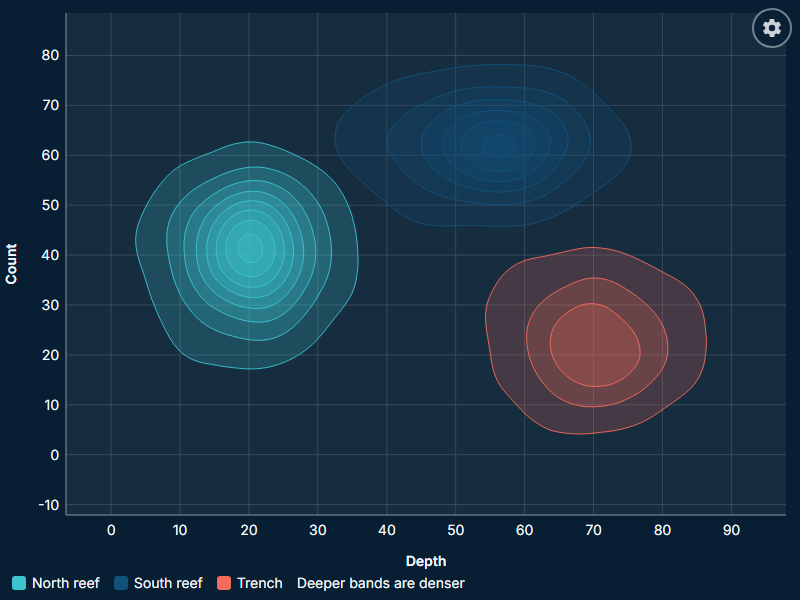
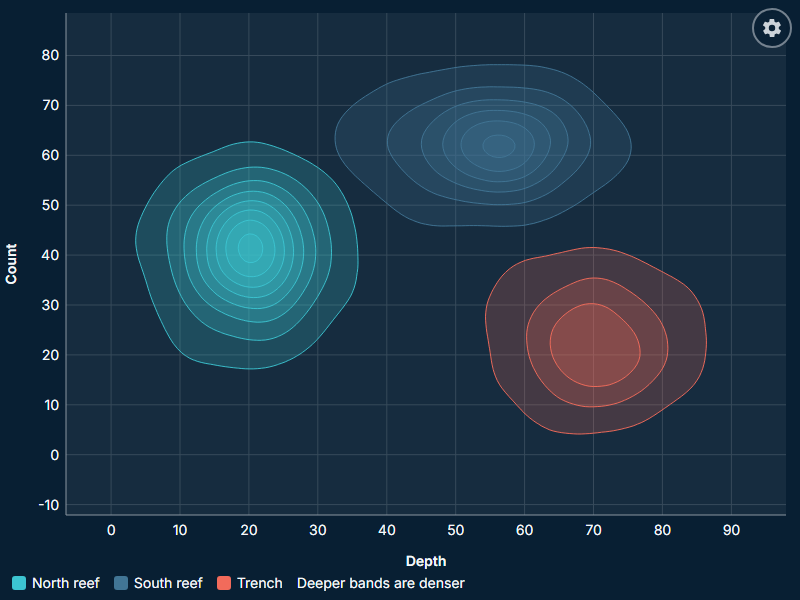
depth-lines: ctab-panel 1.1.0 wiring
Claude-Session: https://claude.ai/code/session_01LgKR4C3YaqcJ7j8irnNHQ8

Changed region(s): [[0.5312, 0.15, 0.7188, 0.33], [0.125, 0.96, 0.1562, 0.99]]

diff --git a/tableau-depth-lines/src/js/depth-lines.js b/tableau-depth-lines/src/js/depth-lines.js
@@ -146,7 +146,9 @@
       state.panel.applyAppearance(state.renderer.chartBg, state.renderer.ink);
       state.panel.gear.style.display = s.showGear ? '' : 'none';
       state.panel.render();
+      try { state.panel.trace({ marks: state.model && state.model.points ? state.model.points.length : 0 }); } catch (e) { /* diagnostics only */ }
     }
+    diagOnEmpty(document.getElementById('dl-root'));
   }
   function onChange (keys) {
     if (keys.some(function (k) { return DATA_KEYS[k]; })) { state.model = buildModel(); state.renderer.clearSelection(); }
@@ -179,10 +181,47 @@
       });
     }
     void r;
-    return { columns: d ? d.raw.columns : [], numericColumns: d ? d.numeric : [], auto: d ? d.auto : {}, lists: { categories: items } };
+    return { columns: d ? d.raw.columns : [], numericColumns: d ? d.numeric : [], auto: d ? d.auto : {}, lists: { categories: items }, data: diagData(d), tokens: diagTokens() };
+  }
+
+  /* What the diagnostics report and the title placeholders see. Cheap, and never throws. */
+  function diagData (d) {
+    try {
+      if (!d || !d.raw) return { rows: 0, fields: [], sample: [] };
+      var rows = d.raw.rows, cols = d.raw.columns;
+      var fields = cols.map(function (c) {
+        var t = 'text';
+        for (var i = 0; i < rows.length; i++) { var v = rows[i][c]; if (v === null || v === undefined) continue; t = typeof v === 'number' ? 'number' : (v instanceof Date ? 'date' : typeof v === 'boolean' ? 'boolean' : 'text'); break; }
+        return { name: c, type: t };
+      });
+      var sample = rows.slice(0, 4).map(function (r) { var o = {}; cols.forEach(function (c) { o[c] = r[c] === undefined ? null : r[c]; }); return o; });
+      return { rows: rows.length, fields: fields, sample: sample };
+    } catch (e) { return { rows: 0, fields: [], sample: [] }; }
+  }
+  function diagTokens () {
+    try {
+      var pts = state.model && state.model.points; if (!pts || !pts.length) return {};
+      var by = {}, total = 0, top = '', topV = -Infinity;
+      pts.forEach(function (p) { total += p.w; if (p.cat) { by[p.cat] = (by[p.cat] || 0) + p.w; if (by[p.cat] > topV) { topV = by[p.cat]; top = p.cat; } } });
+      var out = { total: total.toLocaleString('en-US', { maximumFractionDigits: 1 }) };
+      if (top) out.top = top;
+      return out;
+    } catch (e) { return {}; }
+  }
+  /* A Copy diagnostics button on the blank screen. One per empty box; a redraw rebuilds the box. */
+  function diagOnEmpty (root) {
+    try {
+      var e = root && root.querySelector('.dl-empty');
+      if (e && !e.querySelector('.cp-diagwrap')) CP.diagButton(e, { panel: state.panel });
+    } catch (x) { log('diag button failed', x); }
   }
 
   /* ---------------------------------------------------------------- boot */
+
+  function scheduleRedraw () {
+    if (state.resizeTimer) clearTimeout(state.resizeTimer);
+    state.resizeTimer = setTimeout(function () { state.resizeTimer = null; redraw(); }, 60);
+  }
 
   function mount (ws) {
     state.worksheet = ws;
@@ -192,11 +231,10 @@
     migrateLegacy(state.store, st);
     var root = document.getElementById('dl-root');
     state.renderer = new global.DL.Renderer(root);
-    state.panel = CP.create(root, { title: 'Depth Lines settings', schema: SET.schema, store: state.store, info: info, state: state.store.panelState, prefix: PREFIX });
-    global.addEventListener('resize', function () {
-      if (state.resizeTimer) clearTimeout(state.resizeTimer);
-      state.resizeTimer = setTimeout(function () { state.resizeTimer = null; redraw(); }, 60);
-    });
+    state.panel = CP.create(root, { title: 'Depth Lines settings', schema: SET.schema, store: state.store, info: info, state: state.store.panelState, prefix: PREFIX, version: '1.0.0',
+      /* Pinned to the side the panel pulls the chart in from the right; window resize does not fire, so say so. */
+      onLayout: function () { if (state.model) scheduleRedraw(); } });
+    global.addEventListener('resize', scheduleRedraw);
     var T = global.tableau.TableauEventType || {};
     [T.SummaryDataChanged, T.FilterChanged, T.ParameterChanged, T.WorksheetFormattingChanged].forEach(function (evt) {
       if (!evt || !ws.addEventListener) return;
@@ -220,7 +258,7 @@
     }).catch(function (e) {
       log('initializeAsync failed', e);
       var root = document.getElementById('dl-root');
-      if (root) root.innerHTML = '<div class="dl-empty">This extension could not start. Check the browser console.</div>';
+      if (root) { root.innerHTML = '<div class="dl-empty">This extension could not start. Check the browser console.</div>'; diagOnEmpty(root); }
     });
   }
 

diff --git a/tableau-depth-lines/test/run.js b/tableau-depth-lines/test/run.js
@@ -80,7 +80,7 @@ eq('settings clamp levels to 24', co('levels', '999'), 24);
 eq('settings clamp bandwidth to 0.5', co('bandwidth', '0'), 0.5);
 eq('settings keep a valid hex color', co('bgColor', '#abcdef'), '#abcdef');
 eq('settings reject a bad hex', co('bgColor', 'zzz'), undefined);
-ok('no row is a slider', S.prepared.rows.every(r => ['check', 'number', 'chips', 'select', 'color', 'text', 'font', 'palette', 'field', 'list', 'note'].includes(r.type)));
+ok('no row is a slider', S.prepared.rows.every(r => ['check', 'number', 'chips', 'select', 'color', 'text', 'font', 'palette', 'field', 'list', 'note', 'preview', 'action'].includes(r.type)));
 ok('every number row that carries text has a 14px floor', ['labelSize', 'valueLabelSize', 'tipSize', 'titleSize'].every(k => rowOf(k).min >= 14));
 const nSet = S.KEYS.length;
 ok('at least 40 settings (' + nSet + ')', nSet >= 40);

diff --git a/tableau-depth-lines/test/panel_test.py b/tableau-depth-lines/test/panel_test.py
@@ -129,7 +129,7 @@ def panel_behaviour(b):
     check('gear opens the panel inside the frame', pg.is_visible('.cp-panel') and inside(pg.evaluate(RECT, '.cp-panel'), f))
     tabs = pg.evaluate("[...document.querySelectorAll('.cp-tab')].map(t => t.textContent)")
     check('tabs: 7 chart tabs, the nine standard ones, Panel (%d)' % len(tabs), len(tabs) >= MIN_TABS and tabs[:7] == ['Contours', 'Bands', 'Points', 'Category', 'Axes', 'Grid', 'Legend'] and 'Fields' in tabs and 'Number format' in tabs, str(tabs))
-    n = pg.evaluate("DL.app.state.store.rows.filter(r => r.type !== 'note').length")
+    n = pg.evaluate("DL.app.state.store.rows.filter(r => !['note', 'preview', 'action'].includes(r.type)).length")
     check('at least 40 settings (%d)' % n, n >= 40)
     stats['settings'] = n
     # drag clamps to the frame
@@ -172,9 +172,9 @@ def panel_behaviour(b):
     pg.wait_for_function('DL.app.state.store.get().levels === 4')
     check('a typed value draws 4 bands per group', pg.locator('path.dl-band[data-g="0"]').count() == 4)
     # copy and paste round trip
-    pg.click('[data-a=copy]')
+    pg.click('[data-f=copyall]')
     pg.wait_for_function("document.querySelector('.cp-status').textContent.indexOf('Copied') === 0", timeout=5000)
-    txt = pg.evaluate('DL.app.state.panel.lastCopied'); obj = json.loads(txt)
+    txt = pg.evaluate('DL.app.state.panel.lastCopied'); obj = json.loads(txt)['settings']  # 1.1.0: a labeled block { ctab, chart, name, kind, copied, settings }
     check('Copy settings gives flat JSON with every setting (%d keys)' % len(obj), len(obj) >= n and obj['levels'] == 4 and 'bandwidth' in obj and 'labelSize' in obj and isinstance(obj['catColors'], list), len(obj))
     clip = pg.evaluate('navigator.clipboard.readText()')
     check('the clipboard holds the same text', clip.replace('\r\n', '\n') == txt)
@@ -229,7 +229,7 @@ def sheet_and_shots(b):
 # ------------------------------------------------------------------ every setting changes the render
 
 FLIP_JS = """(cfg) => {
-  const st = DL.app.state, store = st.store, rows = store.rows.filter(r => r.type !== 'note');
+  const st = DL.app.state, store = st.store, rows = store.rows.filter(r => !['note', 'preview', 'action'].includes(r.type));
   const byKey = {}; rows.forEach(r => byKey[r.key] = r);
   const optVals = r => (r.opts || []).map(o => Array.isArray(o) ? o[0] : o.value);
   const defaults = {}; rows.forEach(r => defaults[r.key] = JSON.parse(JSON.stringify(r.def)));

diff --git a/tableau-depth-lines/test/standin_test.py b/tableau-depth-lines/test/standin_test.py
@@ -81,9 +81,9 @@ def main():
                 page.click('[data-a=inc][data-k=levels]')
                 page.wait_for_timeout(500)
                 check(f'[{name}] a visitor stepper click works on the stand-in', int(page.get_attribute('#dl-root', 'data-bands')) >= 3 and not errs, str(errs[:2]))
-                page.click('[data-a=copy]')
+                page.click('[data-f=copyall]')
                 page.wait_for_function("document.querySelector('.cp-status').textContent.indexOf('Copied') === 0 || document.querySelector('.cp-status').textContent.indexOf('clipboard') > 0", timeout=5000)
-                copied = json.loads(page.evaluate('DL.app.state.panel.lastCopied'))
+                copied = json.loads(page.evaluate('DL.app.state.panel.lastCopied'))['settings']
                 check(f'[{name}] Copy settings gives the flat JSON the Viz pages flow reads ({len(copied)} keys)', len(copied) >= 90 and copied['levels'] == page.evaluate('DL.app.state.store.get().levels') and 'multi' in copied and 'labelSize' in copied)
                 page.click('[data-a=close]')
                 band = page.locator('path.dl-band').nth(3).bounding_box()
